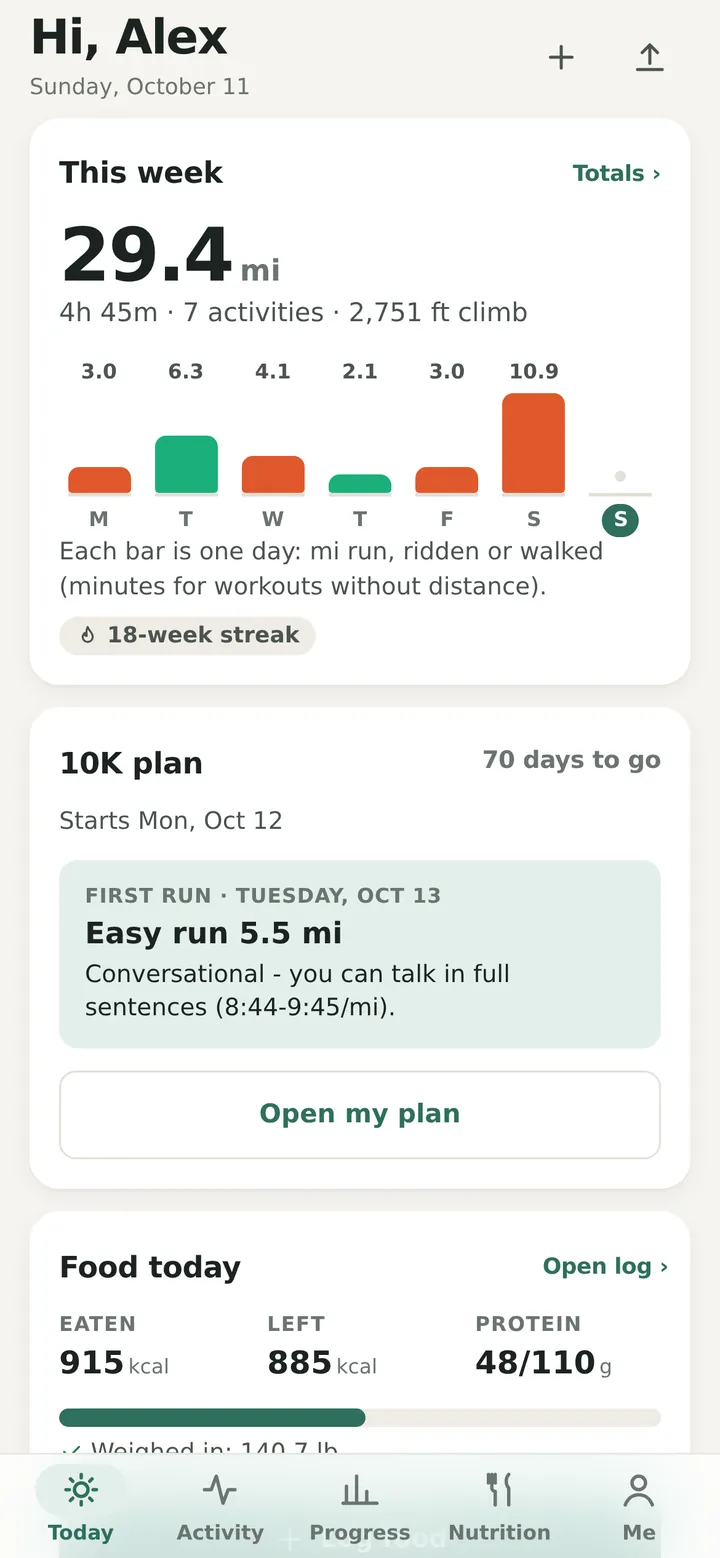
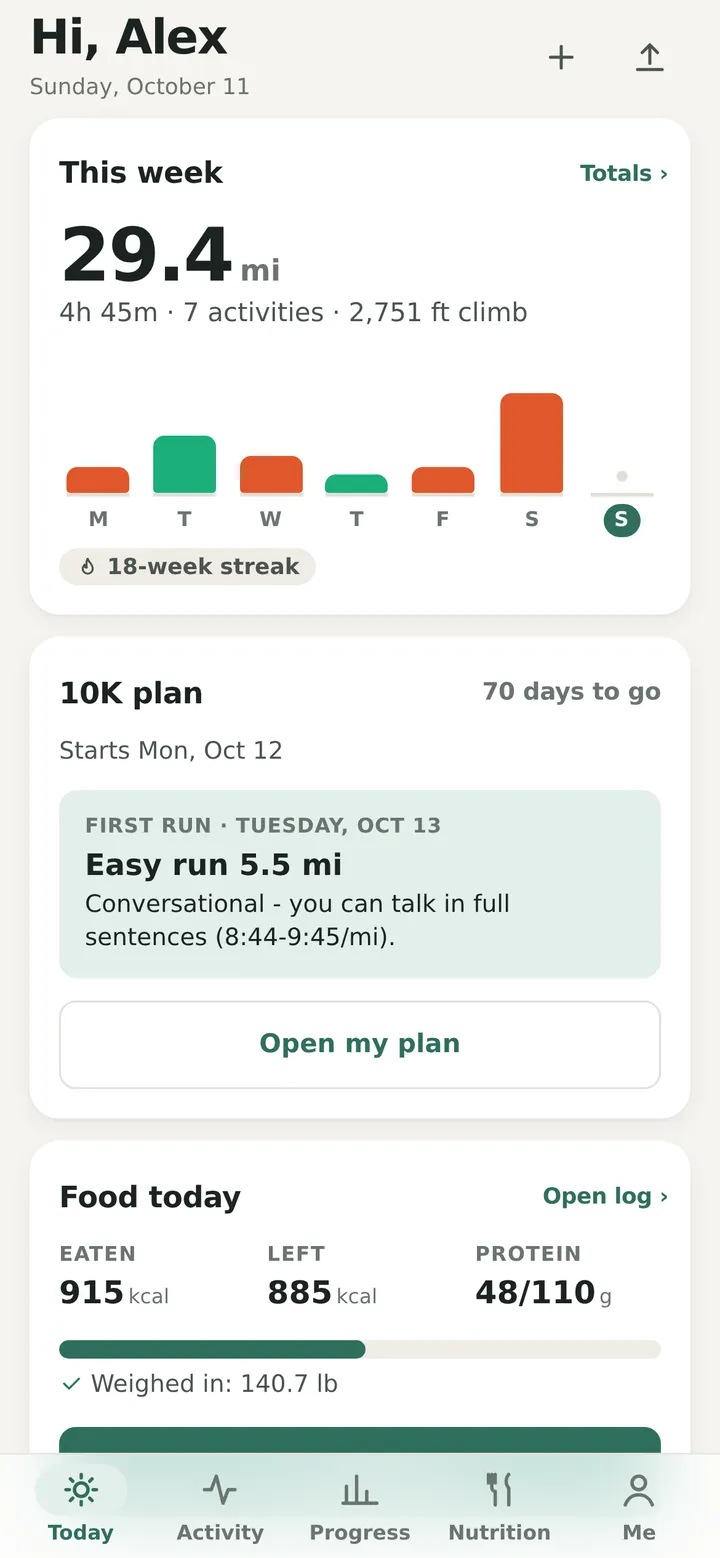
Homepage: premium features included, compared with Strava's subscription
Spotlight on matched routes and similar efforts, cards for the AI coach, training plans, race predictions
and the heatmap, a sourced comparison table (Strava help article + subscribe page, checked 2026-10-11)
and an honest list of what Lankki doesn't do. New demo screenshots (made-up data).

Claude-Session: https://claude.ai/code/session_01DDZ634fFtgp2tWomFVbskZ

diff --git a/site/index.html b/site/index.html
@@ -113,6 +113,46 @@ section.band { padding-block: 80px; border-top: 1px solid var(--line); }
 .more li { padding: 7px 0; border-top: 1px solid var(--line); }
 @media (max-width: 760px) { .more { grid-template-columns: 1fr; } }
 
+
+/* premium: included, not upsold */
+.spot { display: grid; grid-template-columns: minmax(0, 1fr) minmax(0, 1.05fr); gap: 56px; align-items: center; margin-bottom: 72px; }
+.spot .pair { display: grid; grid-template-columns: repeat(2, minmax(0, 1fr)); gap: 18px; align-items: start; }
+.spot .pair .frame:nth-child(2) { margin-top: 48px; }
+.frame { border-radius: 26px; padding: 7px; background: var(--ink); min-width: 0; }
+.frame img { border-radius: 20px; width: 100%; height: auto; aspect-ratio: 720 / 1300; object-fit: cover; object-position: top; }
+.spot h3 { font-size: clamp(26px, 3vw, 34px); margin-top: 14px; }
+.spot p { color: var(--ink2); font-size: 18px; margin-top: 14px; max-width: 44ch; }
+.spot ul { margin: 18px 0 0; padding: 0; list-style: none; display: grid; gap: 10px; color: var(--ink2); }
+.spot li { display: grid; grid-template-columns: 26px minmax(0, 1fr); gap: 10px; align-items: start; }
+.spot li svg { width: 26px; height: 16px; margin-top: 5px; color: var(--berry); }
+@media (max-width: 860px) { .spot { grid-template-columns: 1fr; gap: 32px; } .spot .pair { max-width: 520px; } }
+.pcards { display: grid; grid-template-columns: repeat(4, minmax(0, 1fr)); gap: 22px; }
+.pcard { display: grid; gap: 14px; align-content: start; min-width: 0; }
+.pcard h4 { font: 600 19px/1.2 var(--display); margin: 0; letter-spacing: -0.01em; }
+.pcard p { color: var(--ink2); font-size: 15.5px; }
+@media (max-width: 900px) {
+  .pcards { grid-template-columns: none; grid-auto-flow: column; grid-auto-columns: min(260px, 72vw); overflow-x: auto;
+    scroll-snap-type: x mandatory; padding-bottom: 12px; margin-inline: -20px; padding-inline: 20px; }
+  .pcard { scroll-snap-align: start; }
+}
+.compare { margin-top: 72px; display: grid; grid-template-columns: minmax(0, 1.5fr) minmax(0, 1fr); gap: 40px; align-items: start; }
+.tablewrap { overflow-x: auto; background: var(--paper); border: 1px solid var(--line); border-radius: 20px; }
+table.cmp { width: 100%; border-collapse: collapse; font-size: 15.5px; min-width: 460px; }
+.cmp caption { text-align: left; padding: 22px 22px 6px; font: 600 20px var(--display); }
+.cmp th, .cmp td { padding: 12px 22px; text-align: left; border-top: 1px solid var(--line); vertical-align: top; }
+.cmp thead th { font: 500 12px/1 var(--body); letter-spacing: .12em; text-transform: uppercase; color: var(--ink3); border-top: 0; padding-top: 16px; }
+.cmp td small { display: block; color: var(--ink3); font-size: 13px; margin-top: 2px; }
+.cmp .yes { color: var(--spruce); font-weight: 600; white-space: nowrap; }
+.cmp .paid { color: var(--ink2); white-space: nowrap; }
+.cmp tfoot td { font-weight: 600; }
+.side { display: grid; gap: 22px; }
+.side h3 { font-size: 20px; margin-bottom: 8px; }
+.side ul { margin: 0; padding-left: 1.1em; color: var(--ink2); font-size: 15.5px; display: grid; gap: 6px; }
+.source { font-size: 13px; color: var(--ink3); margin-top: 16px; max-width: 80ch; }
+.source a { color: var(--ink3); }
+.compare > *, .spot > * { min-width: 0; }
+@media (max-width: 900px) { .compare { grid-template-columns: 1fr; } }
+
 /* privacy */
 .privacy { display: grid; grid-template-columns: repeat(3, minmax(0, 1fr)); gap: 20px; }
 .card { background: var(--paper); border: 1px solid var(--line); border-radius: 20px; padding: 26px; }
@@ -162,7 +202,7 @@ footer a { color: var(--ink2); }
   <div class="wrap">
     <a href="#" aria-label="Lankki home"><picture><source srcset="assets/logo-dark.svg" media="(prefers-color-scheme: dark)"><img src="assets/logo.svg" alt="Lankki" width="132" height="24"></picture></a>
     <nav class="links" aria-label="Page">
-      <a href="#what">What it does</a><a href="#install">Install</a><a class="gh" href="https://github.com/BenCBanks/lankki">GitHub</a>
+      <a href="#what">What it does</a><a href="#premium">Compare</a><a href="#install">Install</a><a class="gh" href="https://github.com/BenCBanks/lankki">GitHub</a>
     </nav>
   </div>
 </header>
@@ -187,7 +227,7 @@ footer a { color: var(--ink2); }
         <p class="note">Open source (AGPL-3.0). No ads, no subscription, no one selling your data.</p>
       </div>
       <div class="phone">
-        <picture><source srcset="assets/shots/dark-today.webp" media="(prefers-color-scheme: dark)"><img src="assets/shots/light-today.webp" alt="Lankki's Today screen: this week's 29.4 miles as a bar per day, the next workout in a 10K plan, and calories eaten today" width="720" height="1558"></picture>
+        <picture><source srcset="assets/shots/dark-today.webp" media="(prefers-color-scheme: dark)"><img src="assets/shots/light-today.webp" alt="Lankki's Today screen: this week's 29.4 miles with a bar for each day, the next workout in a 10K plan, and calories eaten today" width="720" height="1558"></picture>
       </div>
     </div>
   </section>
@@ -240,6 +280,81 @@ footer a { color: var(--ink2); }
         <div><h3><svg aria-hidden="true"><use href="#oval"/></svg>Extras</h3><ul>
           <li>Optional AI coach notes (your own key)</li><li>Read-only SQL access to your own data</li><li>Installs on any phone's home screen</li><li>Light and dark mode</li><li>Miles or kilometers, per person</li></ul></div>
       </div>
+    </div>
+  </section>
+
+  <section class="band" id="premium" aria-labelledby="prem-h">
+    <div class="wrap">
+      <div class="head"><span class="eyebrow">Included, not upsold</span><h2 id="prem-h">The premium features, free.</h2>
+        <p>The analysis other apps keep behind a subscription comes standard in Lankki, for everyone on your server. Strava, for example, charges $79.99 a year for most of what's below, or $139.99 for a family.</p></div>
+
+      <div class="spot">
+        <div>
+          <span class="eyebrow">See yourself improve</span>
+          <h3>Your favorite loop, run after run.</h3>
+          <p>Lankki notices when you run the same route again, lines every effort up on one chart and tells you, in plain words, whether you're getting faster.</p>
+          <ul>
+            <li><svg aria-hidden="true"><use href="#oval"/></svg><span><b>Matched routes</b>: pace over time on each route you repeat, with your best and average times.</span></li>
+            <li><svg aria-hidden="true"><use href="#oval"/></svg><span><b>Faster at the same heartbeat</b>: shows whether you're getting fitter, even on days your pace looks the same.</span></li>
+            <li><svg aria-hidden="true"><use href="#oval"/></svg><span><b>Similar efforts</b>: every run compared with your others of the same distance, seconds per mile included.</span></li>
+          </ul>
+        </div>
+        <div class="pair">
+          <div class="frame"><picture><source srcset="assets/shots/dark-route.webp" media="(prefers-color-scheme: dark)"><img src="assets/shots/light-route.webp" alt="The Freedom Park loop run 34 times: best 24:43, average 26:04, and a pace-over-time chart that says: getting faster, about 15 seconds per mile per month, and fitter at the same effort" loading="lazy" width="720" height="1558"></picture></div>
+          <div class="frame"><picture><source srcset="assets/shots/dark-similar.webp" media="(prefers-color-scheme: dark)"><img src="assets/shots/light-similar.webp" alt="Similar efforts: five earlier runs on the same route, each showing how many seconds per mile faster this run was" loading="lazy" width="720" height="1558"></picture></div>
+        </div>
+      </div>
+
+      <div class="pcards">
+        <div class="pcard"><div class="frame"><picture><source srcset="assets/shots/dark-coach.webp" media="(prefers-color-scheme: dark)"><img src="assets/shots/light-coach.webp" alt="An AI coach note on a 2.98 mile run: pace, heart rate, what it means and what to do next" loading="lazy" width="720" height="1558"></picture></div>
+          <h4>An AI coach that knows your history</h4><p>A short note on each new workout and a review every Sunday, written from your own numbers. Uses your own Gemini or Claude key (about a cent a note) and stays off until you add one.</p></div>
+        <div class="pcard"><div class="frame"><picture><source srcset="assets/shots/dark-plan.webp" media="(prefers-color-scheme: dark)"><img src="assets/shots/light-plan.webp" alt="A 10-week intermediate 10K training plan with the first workout" loading="lazy" width="720" height="1558"></picture></div>
+          <h4>Training plans, 5K to marathon</h4><p>First-timer run/walk to advanced, 6 to 20 weeks. Paces come from your current fitness, and your runs tick off workouts on their own.</p></div>
+        <div class="pcard"><div class="frame"><picture><source srcset="assets/shots/dark-fitness.webp" media="(prefers-color-scheme: dark)"><img src="assets/shots/light-fitness.webp" alt="Race predictions for 5K, 10K, half marathon and marathon, and a running fitness score" loading="lazy" width="720" height="1558"></picture></div>
+          <h4>Race predictions and fitness</h4><p>Predicted 5K to marathon times from how you're running now, a VO2max estimate, and fitness, fatigue and form over time.</p></div>
+        <div class="pcard"><div class="frame"><picture><source srcset="assets/shots/dark-heatmap.webp" media="(prefers-color-scheme: dark)"><img src="assets/shots/light-heatmap.webp" alt="A personal heatmap of every route run, ridden or walked around Charlotte" loading="lazy" width="720" height="1558"></picture></div>
+          <h4>Your personal heatmap</h4><p>Every street you've covered, by sport. Runs, rides, walks, hikes, swims, rows, skis and gym workouts all live in one place.</p></div>
+      </div>
+
+      <div class="compare">
+        <div>
+          <div class="tablewrap">
+            <table class="cmp">
+              <caption>What you'd pay for elsewhere</caption>
+              <thead><tr><th scope="col">Feature</th><th scope="col">Lankki</th><th scope="col">Strava</th></tr></thead>
+              <tbody>
+                <tr><td>Progress on routes you repeat<small>Strava: Matched Activities</small></td><td class="yes">Included</td><td class="paid">Subscription</td></tr>
+                <tr><td>AI insights on your workouts<small>Lankki: your own AI key · Strava: Athlete Intelligence</small></td><td class="yes">Included</td><td class="paid">Subscription</td></tr>
+                <tr><td>Running training plans</td><td class="yes">Included</td><td class="paid">Subscription</td></tr>
+                <tr><td>Personal heatmap</td><td class="yes">Included</td><td class="paid">Subscription</td></tr>
+                <tr><td>Fitness, fatigue and form<small>Strava: Fitness &amp; Freshness</small></td><td class="yes">Included</td><td class="paid">Subscription</td></tr>
+                <tr><td>Effort score for every workout<small>Strava: Relative Effort</small></td><td class="yes">Included</td><td class="paid">Subscription</td></tr>
+                <tr><td>Grade-adjusted pace</td><td class="yes">Included</td><td class="paid">Subscription</td></tr>
+                <tr><td>Heart-rate zones from your own max and resting heart rate</td><td class="yes">Included</td><td class="paid">Subscription</td></tr>
+                <tr><td>Best efforts and personal-record history</td><td class="yes">Included</td><td class="paid">Subscription</td></tr>
+                <tr><td>Training log and monthly totals</td><td class="yes">Included</td><td class="paid">Subscription</td></tr>
+                <tr><td>Weekly and yearly goals</td><td class="yes">Included</td><td class="paid">Subscription</td></tr>
+              </tbody>
+              <tfoot><tr><td>Price for a family of four</td><td class="yes">Free</td><td class="paid">$139.99 / year</td></tr></tfoot>
+            </table>
+          </div>
+        </div>
+        <div class="side">
+          <div><h3>Also in Lankki</h3><ul>
+            <li>Food and macro tracking with barcode scanning</li>
+            <li>Heart-rate drift on every run (aerobic decoupling)</li>
+            <li>Shoe and bike mileage with replacement reminders</li>
+            <li>Your whole Strava history imported in one go</li>
+            <li>Your data on your own computer, with SQL access</li></ul></div>
+          <div><h3>What Lankki doesn't do</h3><ul>
+            <li>Segments and leaderboards</li>
+            <li>A social feed with kudos and clubs</li>
+            <li>Route planning and offline route maps</li>
+            <li>Live location sharing</li>
+            <li>Recording with your phone's GPS: it reads activities from your watch or phone app instead</li></ul></div>
+        </div>
+      </div>
+      <p class="source">Strava features and prices from Strava's <a href="https://support.strava.com/hc/en-us/articles/216917657-Strava-Subscription-Features">Subscription Features</a> help article and <a href="https://www.strava.com/subscribe">strava.com/subscribe</a>, checked October 11, 2026; they may change. Strava is a trademark of Strava, Inc. Lankki is an independent project and isn't affiliated with Strava. Running Lankki needs a computer that stays on; AI features are billed to your own AI key.</p>
     </div>
   </section>
 
